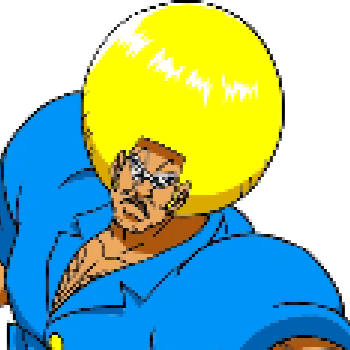
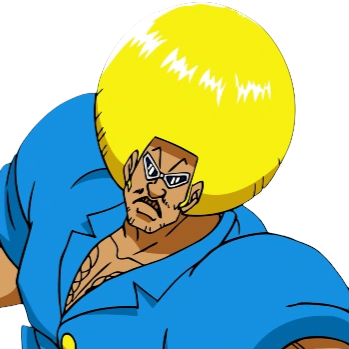
day aaron - bobobo

diff --git a/index.html b/index.html
@@ -53,8 +53,9 @@
       <img src="images/frank_thumb.png" alt=""/>
       <p class="char-label">FRANK REYNOLDS</p>
     </div>
-    <div class="character" data-name="Thomas" data-image="images/thomas.png" data-bg="images/gradient_8.png">
-      <img src="images/bldank.jpg" alt=""/>
+    <div class="character" data-name="Bobobo" data-image="images/bobobo.png" data-bg="images/gradient_8.png">
+      <img src="images/bobobo_thumb.png" alt=""/>
+      <p class="char-label">BOBOBO</p>
     </div>
   </div>
   <div class="character-grid" id="character-grid">
